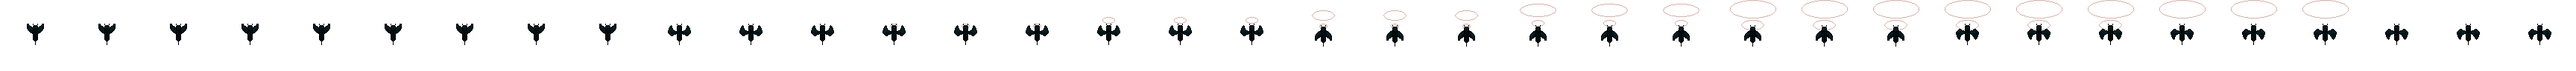
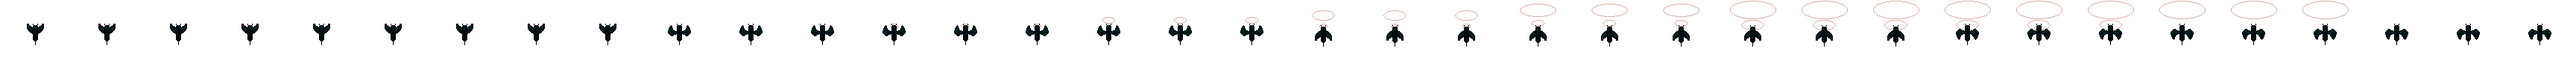
Working State 0.8.1 - for Game release
Current State update:
- Big Update, Death Screen

Working:
- Item Spawning
- movWalls
- Bombs
- Heal + Dmg for Player
- Dmg for Enemies
- Spawner
- Fog
- useFog mechanic
- Enemies spawning
- Animation Loading for Player
- Dying State for Player
- Projectiles for Player
- Melee/Sweep for BOTH
- UI
- keyWall
- HP Drain
- breakWalls
- Doors (Room Changing)
- Score system
- Animation Loading Enemy
- Debug Placeholders for Enemies
- Range Enemy
- special enemy spawner
- Spawn lags are away
- Maps
- reticle
- Sound

Coming Next:
- Dialog system

Not Working rn:
- if kDebugShowFog = false, game crash when I go to the next map "Test2",

- Old Map saving (knowing that this map was visited and is now cleared)

Changed region(s): [[0.6562, 0.2188, 0.9062, 0.2812], [0.6562, 0.0, 0.9062, 0.0625]]

diff --git a/src/scenes/DeathScene.cpp b/src/scenes/DeathScene.cpp
@@ -1,6 +1,8 @@
 #include "DeathScene.h"
 #include <string>
 #include <raylib.h>
+#include <raymath.h>
+#include <cmath>
 #include "Store.h"
 #include "LevelScene.h"
 #include "MenuScene.h"
@@ -13,12 +15,12 @@ using namespace std::string_literals;
 namespace game::scenes
 {
     DeathScene::DeathScene(int final_score)
-        : score_(final_score), selected_item_index_(0)
+        : score_(final_score), selected_item_index_(0),
+          death_animation_({64, 96}, "assets/graphics/ui/Fire_animation.png", 4, 4, {12, 12, 12, 12}, true)
     {
         SoundManager::GetInstance().PlayMusic("death_music");
-        death_font_ = LoadFontEx("assets/fonts/alagard.ttf", 300, nullptr, 0);
+        death_font_ = LoadFontEx("assets/fonts/alagard.ttf", 250, nullptr, 0);
         SetTextureFilter(death_font_.texture, TEXTURE_FILTER_POINT);
-        death_image_ = AssetManager::GetInstance().Load("assets/graphics/ui/Spear_Death2.png");
         selector_texture_ = AssetManager::GetInstance().Load("assets/graphics/ui/arrow_ui.png");
         menu_items_ = { "New Run", "Main Menu" };
     }
@@ -30,6 +32,8 @@ namespace game::scenes
 
     void DeathScene::Update()
     {
+        time_ += GetFrameTime();
+
         // --- Navigation mit Pfeiltasten ---
         if (IsKeyPressed(KEY_DOWN) || IsKeyPressed(KEY_S))
         {
@@ -52,7 +56,6 @@ namespace game::scenes
             float text_y = initial_y + (i * spacing);
             Rectangle item_rect = { text_x, text_y, text_size.x, text_size.y };
 
-            // Benutze die skalierte Mausposition aus dem Store
             if (CheckCollisionPointRec(game::core::Store::mouse_Position, item_rect))
             {
                 is_mouse_over_item = true;
@@ -83,63 +86,89 @@ namespace game::scenes
         }
     }
 
-    void DeathScene::Draw()
-    {
+    // src/scenes/DeathScene.cpp
+
+void DeathScene::Draw()
+{
     ClearBackground(background_color_);
 
-        // --- "Game Over" Titel ---
-        const char* title = "Game Over";
-        float title_font_size = 150;
-        Vector2 title_size = MeasureTextEx(death_font_, title, title_font_size, 2);
-        DrawTextEx(death_font_, title, {(game::Config::kStageWidth / 2.0f) - (title_size.x / 2.0f), game::Config::kStageHeight * 0.1f}, title_font_size, 2, primary_text_color_);
+    // --- Berechnungen für Animationen ---
+    float pulse = sin(time_ * 0.8f) * 0.5f + 0.5f;
+    float float_offset = sin(time_ * 0.75f) * 10.0f;
 
-        // --- Bild in der Mitte ---
-        float image_scale = 8.5f; // Bild vergrößert
-        float scaled_width = death_image_.width * image_scale;
-        float scaled_height = death_image_.height * image_scale;
-        Vector2 image_pos = {
-            (game::Config::kStageWidth / 2.0f) - (scaled_width / 2.0f),
-            (game::Config::kStageHeight * 0.45f) - (scaled_height / 2.0f)
-        };
-        DrawTextureEx(death_image_, image_pos, 0.0f, image_scale, primary_text_color_);
+    // Animation Größe
+    float anim_scale = 8.5f;
+    float anim_width = 64.0f * anim_scale;
+    float anim_height = 96.0f * anim_scale;
 
-        // --- Score ---
-        std::string score_text = "Score: " + std::to_string(score_);
-        float score_font_size = 80; // Schriftgröße erhöht
-        Vector2 score_size = MeasureTextEx(death_font_, score_text.c_str(), score_font_size, 2);
-        Vector2 score_pos = {
-            (game::Config::kStageWidth / 2.0f) - (score_size.x / 2.0f),
-            image_pos.y + scaled_height - 75
-        };
-        DrawTextEx(death_font_, score_text.c_str(), score_pos, score_font_size, 2, primary_text_color_);
+    // Position der Animation
+    Vector2 anim_pos = {
+        (game::Config::kStageWidth / 2.0f),
+        (game::Config::kStageHeight / 2.0f) - 115.0f
+    };
 
-        // --- Menüpunkte ---
-        float menu_font_size = 100; // Schriftgröße erhöht
-        float initial_y = game::Config::kStageHeight * 0.75f;
-        float spacing = 110;
+    // --- Pulsierender Licht/Flammen-Effekt ---
+    Vector2 light_center = anim_pos;
+    float base_radius = 180.0f;
+    float light_radius = (base_radius * anim_scale / 6.0f) + pulse * 100.0f;
+    Color flame_inner = { 0x58, 0x3c, 0x48, 255 };
+    Color flame_outer = { 0x44, 0x34, 0x44, 255 };
+    DrawCircleGradient(light_center.x, light_center.y, light_radius * 1.5f, ColorAlpha(flame_outer, 0.7f * (pulse * 0.5f + 0.5f)), BLANK);
+    DrawCircleGradient(light_center.x, light_center.y, light_radius, ColorAlpha(flame_inner, 0.9f * (pulse * 0.7f + 0.3f)), BLANK);
 
-        for (int i = 0; i < menu_items_.size(); ++i)
+    // --- Animation zeichnen ---
+    death_animation_.Draw_Current_Frame(anim_pos, WHITE, anim_scale);
+    death_animation_.Next_Frame();
+
+    // --- "Game Over" Titel ---
+    const char* title = "Game Over";
+    float title_font_size = 150;
+    Vector2 title_size = MeasureTextEx(death_font_, title, title_font_size, 2);
+    Vector2 title_pos = {(game::Config::kStageWidth / 2.0f) - (title_size.x / 2.0f), game::Config::kStageHeight * 0.1f + float_offset};
+    DrawTextEx(death_font_, title, title_pos, title_font_size, 2, primary_text_color_);
+
+    // --- Vignette zeichnen ---
+    float vignette_radius = Vector2Distance({0, 0}, {(float)game::Config::kStageWidth, (float)game::Config::kStageHeight}) * 0.7f;
+    DrawCircleGradient((int)light_center.x, (int)light_center.y, vignette_radius, ColorAlpha(BLACK, 0.0f), ColorAlpha(BLACK, 0.85f));
+
+    // Score ist jetzt höher, direkt unter dem Titel platziert
+    std::string score_text = "Score: " + std::to_string(score_);
+    float score_font_size = 80;
+    Vector2 score_size = MeasureTextEx(death_font_, score_text.c_str(), score_font_size, 2);
+    Vector2 score_pos = {
+        (game::Config::kStageWidth / 2.0f) - (score_size.x / 2.0f),
+        anim_pos.y + (anim_height / 2.0f) - 110.0f
+    };
+    DrawTextEx(death_font_, score_text.c_str(), score_pos, score_font_size, 2, primary_text_color_);
+
+    // --- Menüpunkte ---
+    float menu_font_size = 100;
+    float initial_y = game::Config::kStageHeight * 0.75f;
+    float spacing = 110;
+
+    for (int i = 0; i < menu_items_.size(); ++i)
+    {
+        Vector2 text_size = MeasureTextEx(death_font_, menu_items_[i].c_str(), menu_font_size, 2);
+        float text_x = (game::Config::kStageWidth / 2.0f) - (text_size.x / 2.0f);
+        float text_y = initial_y + (i * spacing);
+        Color current_color = (i == selected_item_index_) ? selected_text_color_ : text_color_;
+
+        if (i == selected_item_index_)
         {
-            Vector2 text_size = MeasureTextEx(death_font_, menu_items_[i].c_str(), menu_font_size, 2);
-            float text_x = (game::Config::kStageWidth / 2.0f) - (text_size.x / 2.0f);
-            float text_y = initial_y + (i * spacing);
-            Color current_color = (i == selected_item_index_) ? selected_text_color_ : text_color_;
-
-            if (i == selected_item_index_)
-            {
-                float selector_scale = 3.0f;
-                float selector_width = selector_texture_.width * selector_scale;
-                float selector_height = selector_texture_.height * selector_scale;
-                float selector_x = text_x - selector_width - 25;
-                float selector_y = text_y + (text_size.y / 2.0f) - (selector_height / 2.0f);
-                DrawTextureEx(selector_texture_, {selector_x, selector_y}, 0.0f, selector_scale, primary_text_color_);
-            }
-            DrawTextEx(death_font_, menu_items_[i].c_str(), {text_x, text_y}, menu_font_size, 2, current_color);
+            float selector_offset_x = sin(time_ * 5.0f) * 5.0f;
+            float selector_scale = 3.0f;
+            float selector_width = selector_texture_.width * selector_scale;
+            float selector_height = selector_texture_.height * selector_scale;
+            float selector_x = text_x - selector_width - 25 + selector_offset_x;
+            float selector_y = text_y + (text_size.y / 2.0f) - (selector_height / 2.0f);
+            DrawTextureEx(selector_texture_, {selector_x, selector_y}, 0.0f, selector_scale, primary_text_color_);
         }
+        DrawTextEx(death_font_, menu_items_[i].c_str(), {text_x, text_y}, menu_font_size, 2, current_color);
+    }
 
-        // --- Custom Cursor ---
-        float cursor_scale = 1.3f;
-        Texture2D cursor_texture = AssetManager::GetInstance().Load("assets/graphics/ui/cursor.png");
-        DrawTextureEx(cursor_texture, game::core::Store::mouse_Position, 0.0f, cursor_scale, cursor_color_);
+    // --- Custom Cursor ---
+    float cursor_scale = 1.3f;
+    Texture2D cursor_texture = AssetManager::GetInstance().Load("assets/graphics/ui/cursor.png");
+    DrawTextureEx(cursor_texture, game::core::Store::mouse_Position, 0.0f, cursor_scale, cursor_color_);
     }
 }

diff --git a/src/scenes/MenuScene.cpp b/src/scenes/MenuScene.cpp
@@ -1,6 +1,7 @@
 #include "MenuScene.h"
 #include <string>
 #include <raylib.h>
+#include <cmath>
 #include "Store.h"
 #include "LevelScene.h"
 #include "AssetManager.h"
@@ -46,6 +47,9 @@ namespace game::scenes
 
     void MenuScene::Update()
     {
+        // Zeit für die Animation aktualisieren
+        time_ += GetFrameTime();
+
         // Navigation mit Pfeiltasten - angepasst, um nicht im Kreis zu springen
         if (IsKeyPressed(KEY_DOWN) || IsKeyPressed(KEY_S))
         {
@@ -118,12 +122,12 @@ namespace game::scenes
     {
         ClearBackground(background_color_);
 
-        // --- Logo zeichnen (skaliert und neu positioniert) ---
-        float scale = 0.7f; // Skalierungsfaktor für das Logo (kannst du anpassen)
+        // --- Logo zeichnen ---
+        float scale = 0.7f; // Skalierungsfaktor für das Logo
         float logo_width = logo_texture_.width * scale;
         float logo_height = logo_texture_.height * scale;
         float logo_x = (GetScreenWidth() / 2.0f) - (logo_width / 2.0f);
-        float logo_y = -180; // Weiter nach oben verschoben
+        float logo_y = -180;
 
         DrawTexturePro(
             logo_texture_,
@@ -135,9 +139,9 @@ namespace game::scenes
         );
 
         // --- Menüpunkte zeichnen ---
-        float font_size = 120; // Schriftgröße erhöht
-        int initial_y = 420; // Position nach unten angepasst, um Platz für das Logo zu schaffen
-        int spacing = 110;    // Abstand zwischen den Punkten vergrößert
+        float font_size = 120;
+        int initial_y = 420;
+        int spacing = 110;
 
         for (int i = 0; i < menu_items_.size(); ++i)
         {
@@ -150,10 +154,11 @@ namespace game::scenes
             // Auswahl-Pfeil zeichnen
             if (i == selected_item_index_)
             {
+                float selector_offset_x = sin(time_ * 2.5f) * 5.0f; // Schwingt 5 Pixel nach links und rechts
                 float selector_scale = 3.5f; // Skalierungsfaktor für den Pfeil
                 float selector_width = selector_texture_.width * selector_scale;
                 float selector_height = selector_texture_.height * selector_scale;
-                float selector_x = text_x - selector_width - 30; // Abstand angepasst
+                float selector_x = text_x - selector_width - 30 + selector_offset_x;
                 float selector_y = text_y + (text_size.y / 2.0f) - (selector_height / 2.0f);
 
                 DrawTexturePro(

diff --git a/src/scenes/DeathScene.h b/src/scenes/DeathScene.h
@@ -3,6 +3,8 @@
 #include "Scene.h"
 #include <vector>
 #include <string>
+#include <raymath.h>
+#include "../core/ControllableAnimations.h"
 
 namespace game::scenes
 {
@@ -19,17 +21,23 @@ namespace game::scenes
     private:
         int score_;
         Font death_font_;
-        Texture2D death_image_;
         Texture2D selector_texture_;
+        ControllableAnimations death_animation_;
 
         std::vector<std::string> menu_items_;
         int selected_item_index_;
 
+        float time_ = 0.0f; // Hinzugefügt, um die Zeit für Animationen zu verfolgen
+
         // Farben für die UI
-        Color background_color_ = { 0, 44, 56, 255 };
+        Color background_color_ = { 10, 20, 25, 255 }; // Etwas dunkler für mehr Kontrast
         Color text_color_ = { 216, 176, 168, 150 };
         Color selected_text_color_ = { 216, 176, 168, 255 };
         Color primary_text_color_ = { 252, 252, 252, 255 };
         Color cursor_color_ = { 88, 60, 72, 255 };
+
+        // Neue Farben für den Flammeneffekt, passend zur Farbpalette
+        Color flame_outer_color_ = { 200, 80, 40, 255 };
+        Color flame_inner_color_ = { 255, 180, 50, 255 };
     };
 }

diff --git a/src/core/ControllableAnimations.cpp b/src/core/ControllableAnimations.cpp
@@ -55,10 +55,10 @@ void ControllableAnimations::Next_Frame() {
     }
 }
 
-void ControllableAnimations::Draw_Current_Frame(Vector2 pos, Color tint) {
+    void ControllableAnimations::Draw_Current_Frame(Vector2 pos, Color tint, float scale) {
     // Diese Draw-Methode ist robust und funktioniert mit dem Nebel-Shader.
-    Vector2 origin = { this->size.x / 2, this->size.y / 2 };
-    Rectangle dest = { pos.x, pos.y, this->size.x, this->size.y };
+    Rectangle dest = { pos.x, pos.y, this->size.x * scale, this->size.y * scale };
+    Vector2 origin = { (this->size.x * scale) / 2, (this->size.y * scale) / 2 };
 
     BeginBlendMode(BLEND_ALPHA);
     DrawTexturePro(

diff --git a/src/core/ControllableAnimations.h b/src/core/ControllableAnimations.h
@@ -25,7 +25,7 @@ public:
     ControllableAnimations(Vector2 sprite_size, const char* filename, int frame_count, int sprites_per_line, std::vector<int> frame_timings, bool loops = false);
 
     void Next_Frame();
-    void Draw_Current_Frame(Vector2 pos, Color tint = WHITE);
+    void Draw_Current_Frame(Vector2 pos, Color tint = WHITE, float scale = 1.0f);
 
     void SetProgress(int frame, int frame_progress);
     int Get_Frame_Progress() const { return frame_progress_counter_; }

diff --git a/src/scenes/MenuScene.h b/src/scenes/MenuScene.h
@@ -22,6 +22,8 @@ namespace game::scenes
         std::vector<std::string> menu_items_;
         int selected_item_index_;
 
+        float time_ = 0.0f;
+
         Color background_color_;
         Color text_color_;
         Color selected_text_color_;
